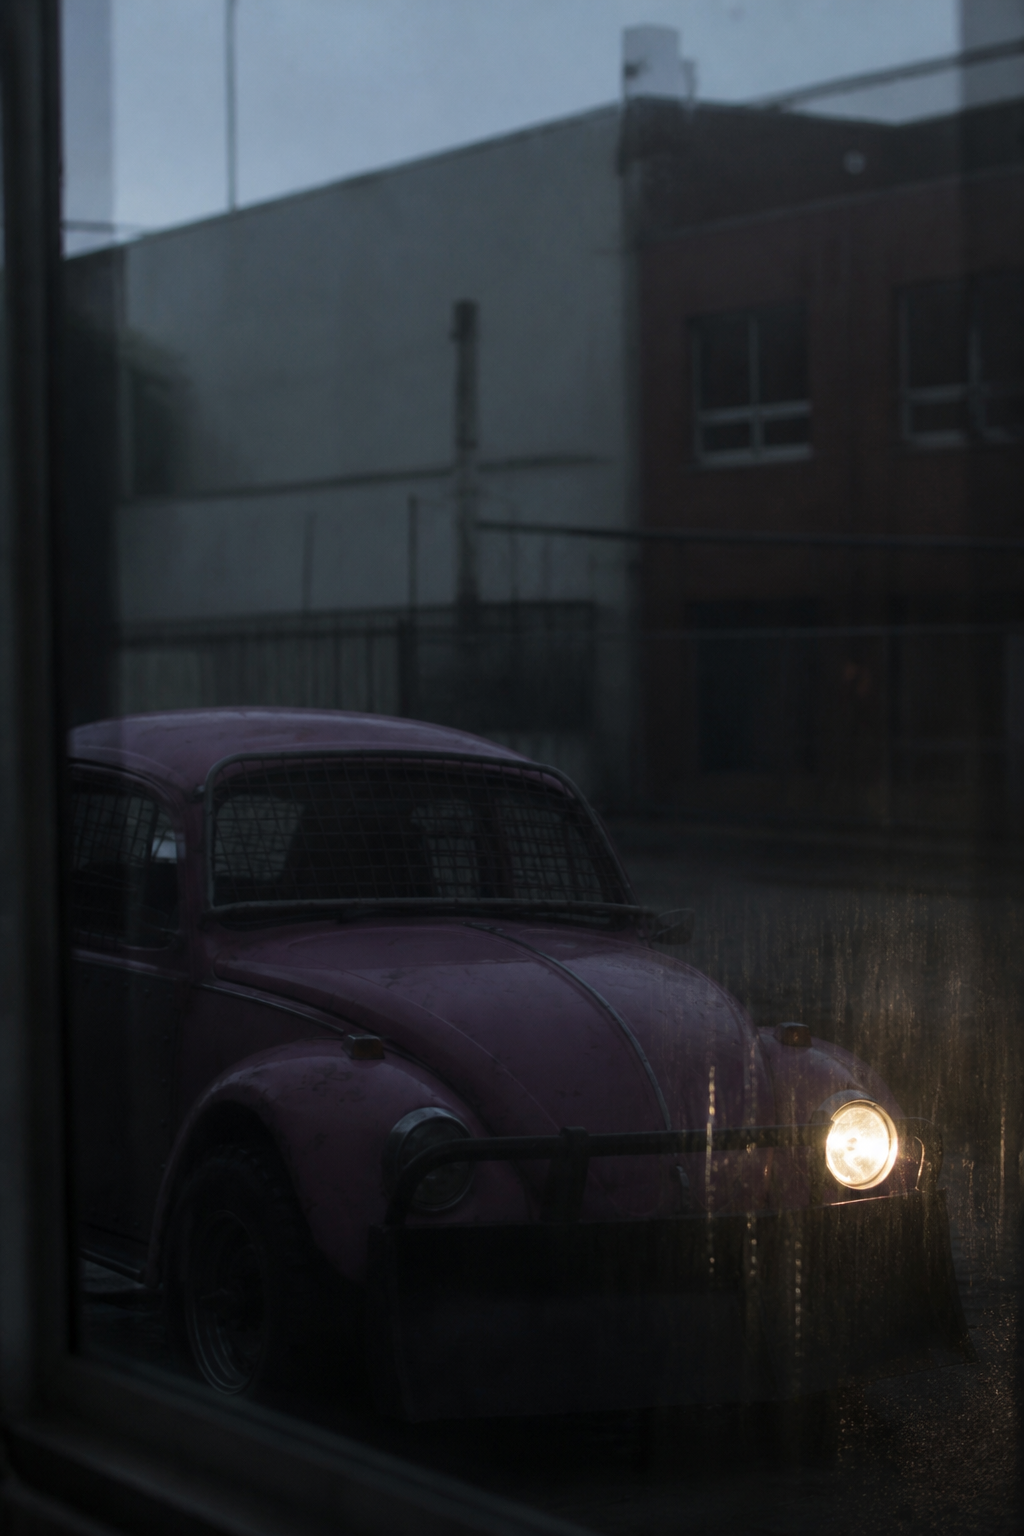
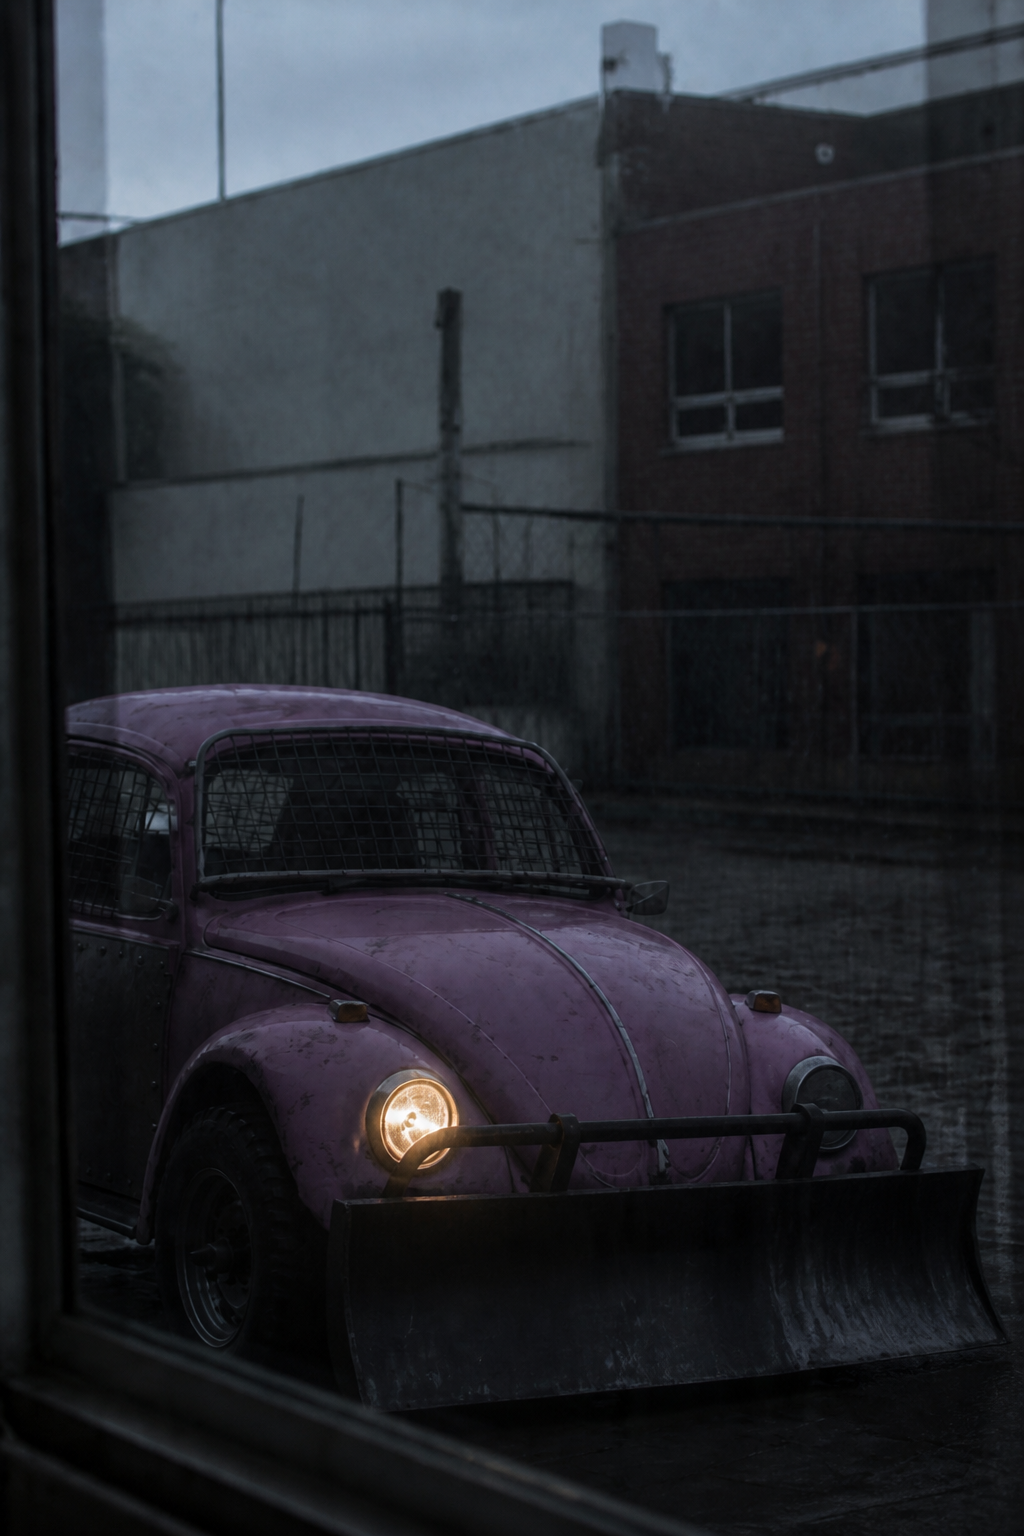
Reshoot II-020 with the plow on and the left lamp dark.
The legal front is two lows — this still is one live right beam and a hole on the left.

diff --git a/src/game.js b/src/game.js
@@ -150,7 +150,7 @@ function sceneFragment(scene) {
 }
 
 function imageUrl(cardId) {
-  return "/api/run/image/" + encodeURIComponent(cardId) + "?v=a11";
+  return "/api/run/image/" + encodeURIComponent(cardId) + "?v=a12";
 }
 
 function cargoFrom(state) {
